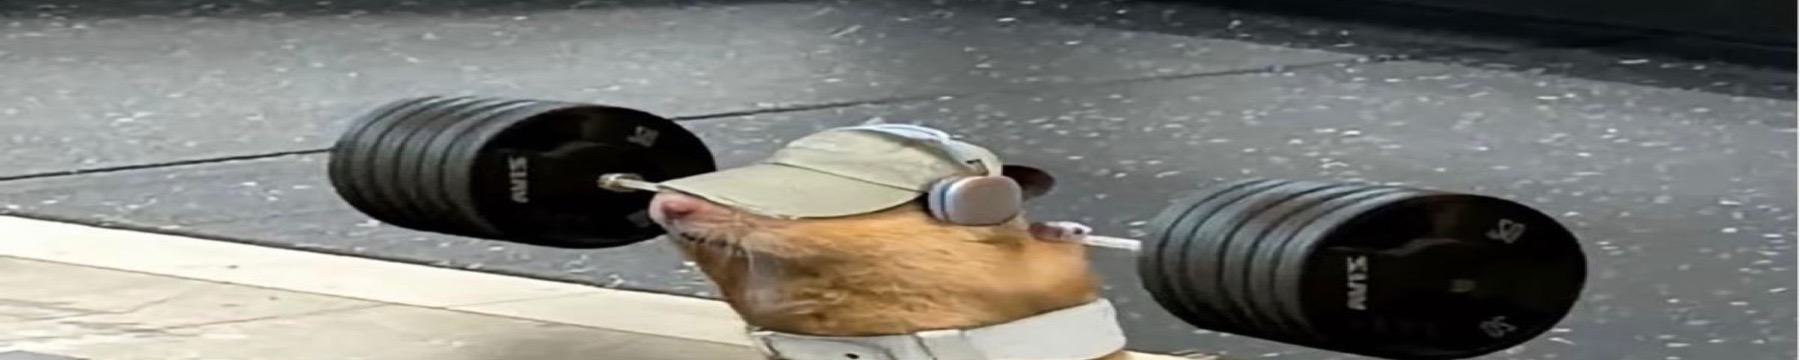
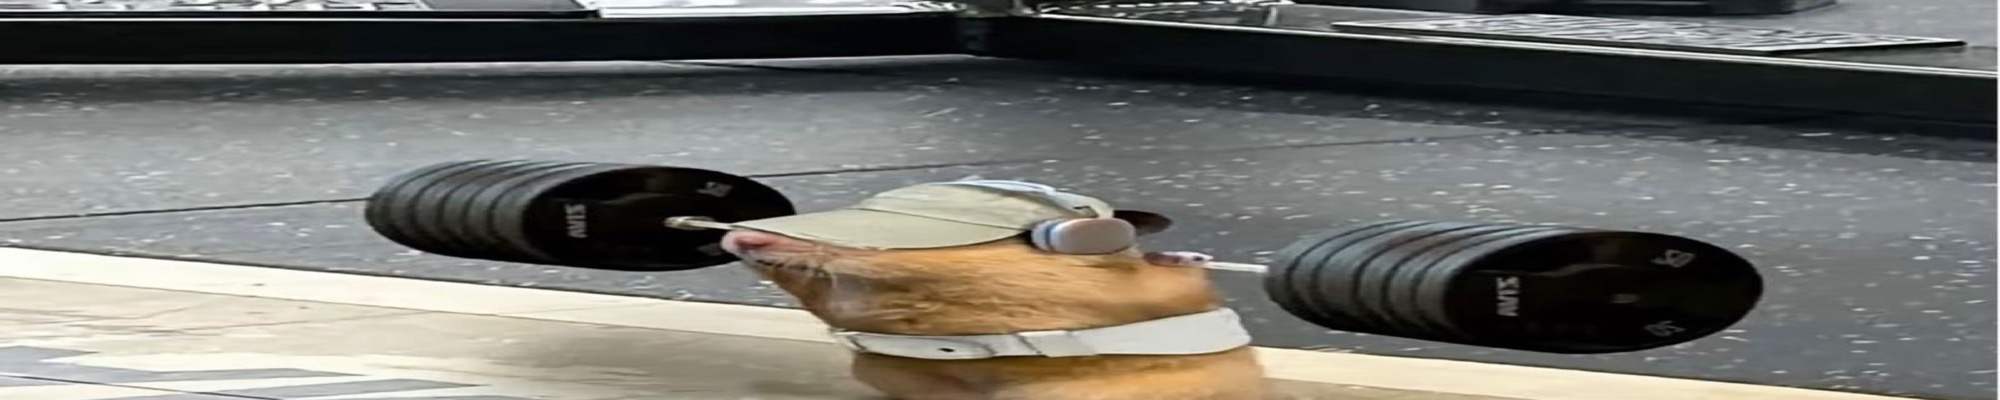
fix(ui): 배너 5:1 비율 고정·햄스터 전체가 보이도록 이미지 재크롭
- 컨테이너 aspect-[5/1]로 전체 화면 너비에 맞춰 높이 자동 조절
- 원본에서 모자·역기 포함하도록 세로 크롭 영역 확대

diff --git a/frontend/src/components/StudentBanner.tsx b/frontend/src/components/StudentBanner.tsx
@@ -1,7 +1,7 @@
 import { useState } from 'react';
 
-/** 전체 화면(넓은 메인 영역) 기준 5:1 배너 — `public/student-banner.jpg` */
-const BANNER_SRC = '/student-banner.jpg?v=wide1';
+/** 2000×400 (5:1) — 컨테이너도 같은 비율로 맞춰 전체 화면에서 잘리지 않음 */
+const BANNER_SRC = '/student-banner.jpg?v=wide2';
 
 export function StudentBanner({ alt = '학생 배너' }: { alt?: string }) {
   const [visible, setVisible] = useState(true);
@@ -10,8 +10,7 @@ export function StudentBanner({ alt = '학생 배너' }: { alt?: string }) {
 
   return (
     <div className="w-full overflow-hidden rounded-xl border border-gray-200 bg-gray-100">
-      {/* lg+ = 사이드바 제외한 전체 화면 메인 폭 기준 높이 */}
-      <div className="relative w-full h-[200px] sm:h-[240px] lg:h-[280px] xl:h-[300px] 2xl:h-[320px]">
+      <div className="relative w-full aspect-[5/1] max-h-[min(26rem,42vh)]">
         <img
           src={BANNER_SRC}
           alt={alt}